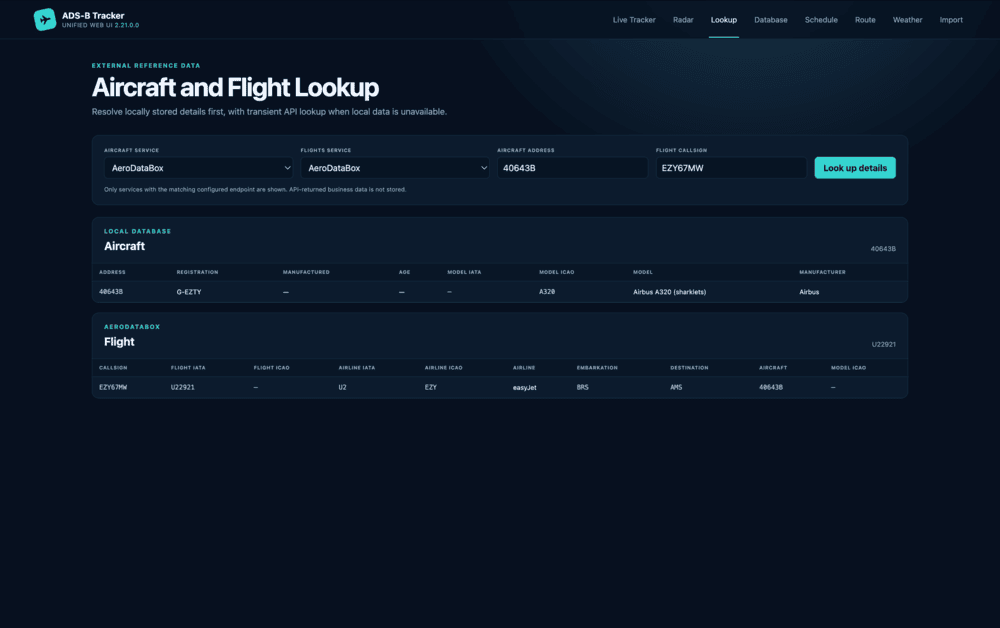
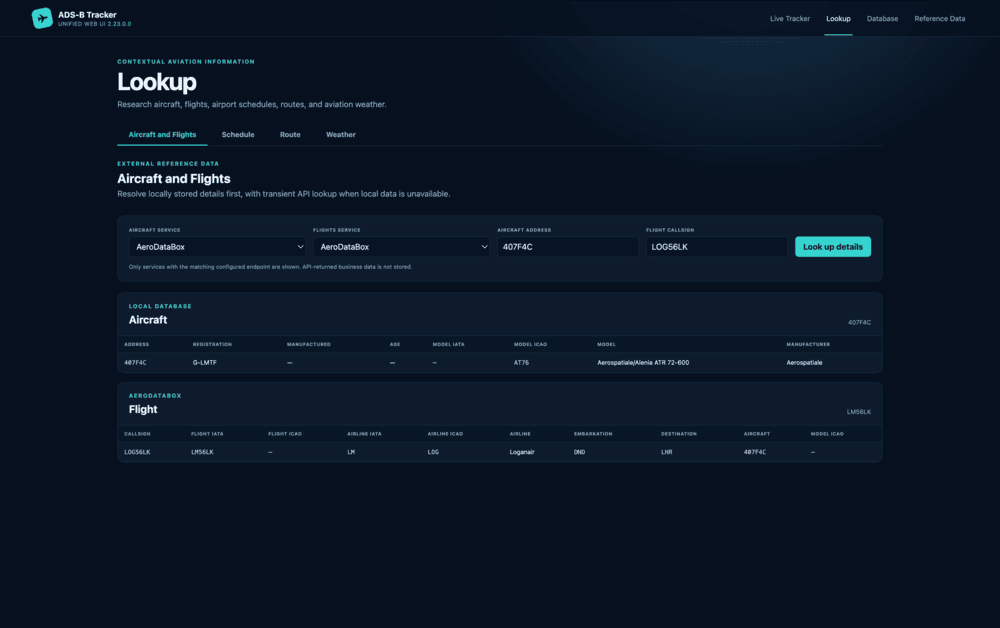
Updated the documentation

diff --git a/README.md b/README.md
@@ -25,15 +25,15 @@ The project currently supports:
 
 - **Session-based aircraft observation** from a BaseStation-compatible TCP message feed
 - **Observation-session preparation** with tracking-profile selection and optional contextual notes
-- **Live aircraft tracking** within the active observation session
+- **Live aircraft tracking and receiver-centred radar** within the active observation session
 - **Read-only session summaries** covering observation totals, identification coverage and session highlights
 - **Configurable tracking profiles** based on receiver location, altitude, distance and aircraft behaviour
 - **Local SQLite persistence** of observation sessions, aircraft records and optional position histories
 - **Integrated browser-based UI** organised around live observation, contextual aviation information and reference-data management
-- **Historical observation browsing** with session-based filtering and record inspection
-- **Interactive radar plus 2D and 3D flight-path visualisation**
-- **Aircraft and flight lookup** using local reference data and optional external services
-- **Airport schedules, route visualisation and METAR/TAF weather lookup**
+- **Historical observation browsing** with dedicated session and tracking-record views, filtering and record inspection
+- **Post-session analysis** available directly from the session browser
+- **Interactive live radar plus 2D and 3D flight-path visualisation**
+- **Tabbed contextual lookup workspace** for aircraft and flights, airport schedules, route visualisation and METAR/TAF weather
 - **Reference-data management and CSV import** for:
   - Airlines
   - Manufacturers
@@ -117,18 +117,13 @@ The interface is organised around the natural workflow of an aircraft observer:
 
 ### Observation Workflow
 
-The Live Tracker guides an observation through three stages:
+The Live Tracker brings the active observation workflow together in four tabs:
 
-```text
-Session
-   ↓
-Tracking
-   ↓
-Summary
-```
+> Session &rarr; Tracking &harr; Radar &rarr; Summary
 
 - **Session** — select a tracking profile, review the effective receiver and tracking limits, add optional notes, and start the session
-- **Tracking** — monitor the live aircraft collection, inspect current telemetry, and move directly to Radar, Lookup, or historical records
+- **Tracking** — monitor the live aircraft collection, inspect current telemetry, and move directly to Lookup or historical records
+- **Radar** — view positioned aircraft by range and bearing from the receiver; this tab is available only while a session is active
 - **Summary** — review the persisted session context, observation totals, identification coverage, and notable observations
 
 Each session records a snapshot of the effective tracking profile and groups the aircraft records created during that run. The profile and notes become read-only after the session starts. When tracking stops, outstanding observations are persisted before the completed summary is displayed.
@@ -138,29 +133,32 @@ Each session records a snapshot of the effective tracking profile and groups the
 The primary observation tools used while tracking aircraft:
 
 - Session-based Live Tracking
-- Receiver-centred Radar
+- Integrated receiver-centred Radar
 - Aircraft and Flight Lookup
-- Historical Database Browser with observation-session filtering
+- Historical Database Browser with Sessions and Tracking Records tabs
 - Historical aircraft details and flight analysis
 
 These views focus on aircraft currently being observed or previously recorded, allowing observations to be inspected, identified and analysed.
 
+The Database opens on the **Sessions** tab. Sessions can be filtered using the recent-session selector or an unrestricted start-date range. Each row exposes its recorded context, provides session notes in a popup, opens the same analysis shown by the Live Tracker Summary tab, and links directly to the associated tracking records. The **Tracking Records** tab retains aircraft, callsign, session and telemetry filtering, along with links to detailed historical records.
+
 ### Operational Context
 
-Supporting aviation information that provides context for an observing session without becoming part of the observation record:
+The **Lookup** area groups supporting aviation information into a single tabbed workspace:
 
-- Airport Schedules
-- Route Visualisation
-- Airport Weather
+- Aircraft and Flights
+- Schedule
+- Route
+- Weather
 
-These workflows help explain what is being observed while remaining conceptually separate from the tracking data itself.
+Links between these tools preserve their context—for example, a schedule result can be opened as a route or weather lookup. These workflows help explain what is being observed while remaining conceptually separate from the tracking data itself.
 
 ### Reference Data Management
 
-Tools for maintaining the locally curated reference data used by the application:
+The **Reference Data** area provides tools for maintaining the locally curated information used by the application:
 
-- Reference Data Import
-- Provenance Management
+- Import
+- Provenance
 - Aircraft and Callsign Exclusion Management
 
 This organisation reinforces the distinction between observed ADS-B data, transient contextual information and locally managed enrichment data.
